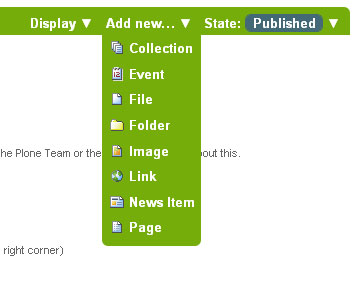
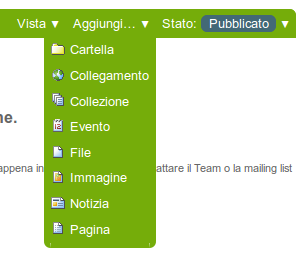
Rifatti altri screenshot

Changed region(s): [[0.0, 0.0, 0.99, 0.9612], [0.0, 0.4341, 0.06, 0.4961]]

diff --git a/source/adding-content/adding-images.rst b/source/adding-content/adding-images.rst
@@ -15,7 +15,7 @@ as these are not widely supported by web browsers.**
 When you are ready to upload an image, use the *Add new...* drop-down
 menu (You will only see the *Add new...* menu after logging in):
 
-.. figure:: ../_static/add-item-menu-image.png
+.. figure:: ../_static/addnewmenu.png
    :align: center
    :alt: add-item-menu-image.png
 

diff --git a/source/adding-content/adding-files.rst b/source/adding-content/adding-files.rst
@@ -5,7 +5,7 @@ Files of various types can be uploaded to Plone web sites.
 
 Choose file in the *Add new...* menu for a folder to upload a file:
 
-.. figure:: ../_static/copy_of_addnewmenu.png
+.. figure:: ../_static/addnewmenu.png
    :align: center
    :alt: add-new-menu.png
 

diff --git a/source/adding-content/adding-news-items.rst b/source/adding-content/adding-news-items.rst
@@ -5,7 +5,7 @@ Plone web sites have a built-in system for publishing news items.
 
 Use the *Add new...* menu for a folder to add a news item:
 
-.. figure:: ../_static/copy_of_addnewmenu.png
+.. figure:: ../_static/addnewmenu.png
    :align: center
    :alt: add-new-menu.png
 

diff --git a/source/adding-content/adding-folders.rst b/source/adding-content/adding-folders.rst
@@ -14,7 +14,7 @@ system.
 Folders are added by clicking the **Add new...** drop-down menu. Select
 **Folder** from the menu:
 
-.. figure:: ../_static/add-item-menu-folder.png
+.. figure:: ../_static/addnewmenu.png
    :align: center
    :alt: add-item-menu-folder.png
 

diff --git a/source/adding-content/adding-new-content.rst b/source/adding-content/adding-new-content.rst
@@ -6,7 +6,7 @@ definitions of each standard content type
 
 New content items are added via the **Add New . . .** drop-down menu:
 
-.. figure:: ../_static/copy_of_addnewmenu.png
+.. figure:: ../_static/addnewmenu.png
    :align: center
    :alt: add-new-menu.png
 

diff --git a/source/adding-content/adding-links.rst b/source/adding-content/adding-links.rst
@@ -10,7 +10,7 @@ navigation.
 Add a link by clicking the menu choice in the *Add new...* menu for a
 folder:
 
-.. figure:: ../_static/copy_of_addnewmenu.png
+.. figure:: ../_static/addnewmenu.png
    :align: center
    :alt: add-new-menu.png
 

diff --git a/source/adding-content/adding-events.rst b/source/adding-content/adding-events.rst
@@ -6,7 +6,7 @@ events.
 
 Use the *Add new...* menu for a folder to add an event:
 
-.. figure:: ../_static/copy_of_addnewmenu.png
+.. figure:: ../_static/addnewmenu.png
    :align: center
    :alt: add-new-menu.png
 

diff --git a/source/adding-content/adding-pages.rst b/source/adding-content/adding-pages.rst
@@ -6,7 +6,7 @@ another.
 
 To add a page, use the *Add new...* menu for a folder:
 
-.. figure:: ../_static/copy_of_addnewmenu.png
+.. figure:: ../_static/addnewmenu.png
    :align: center
    :alt: 
 
